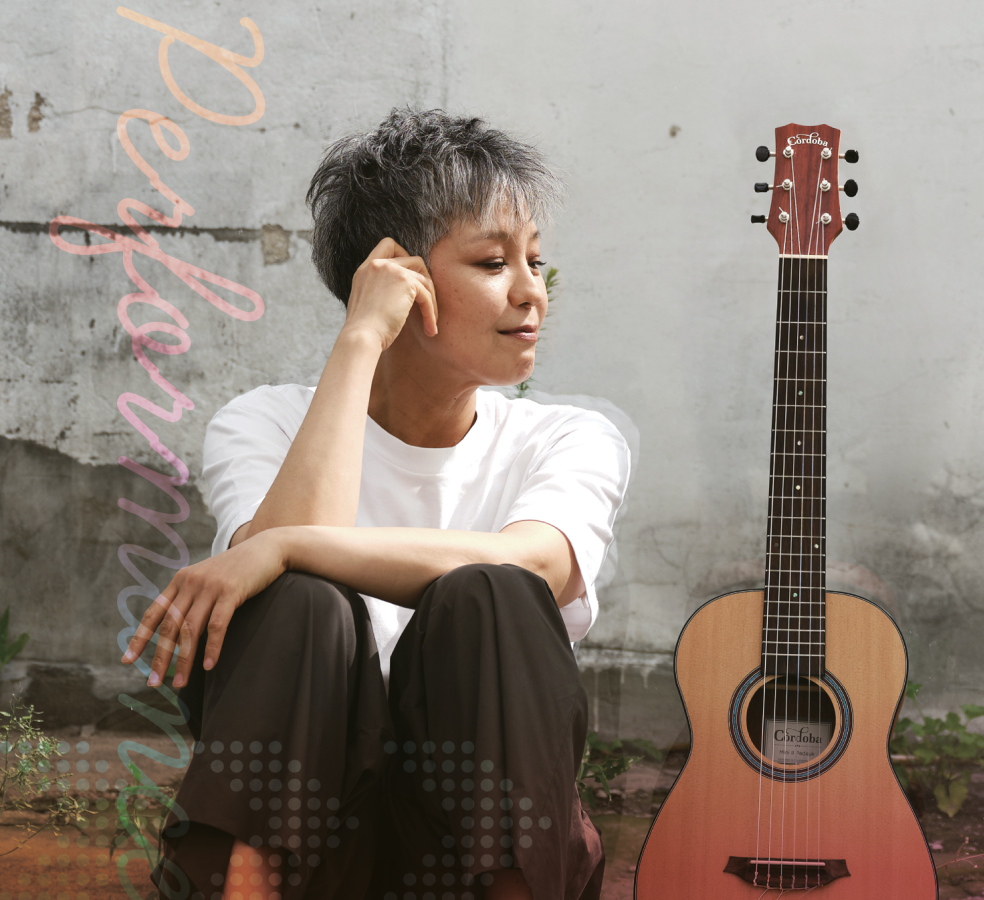
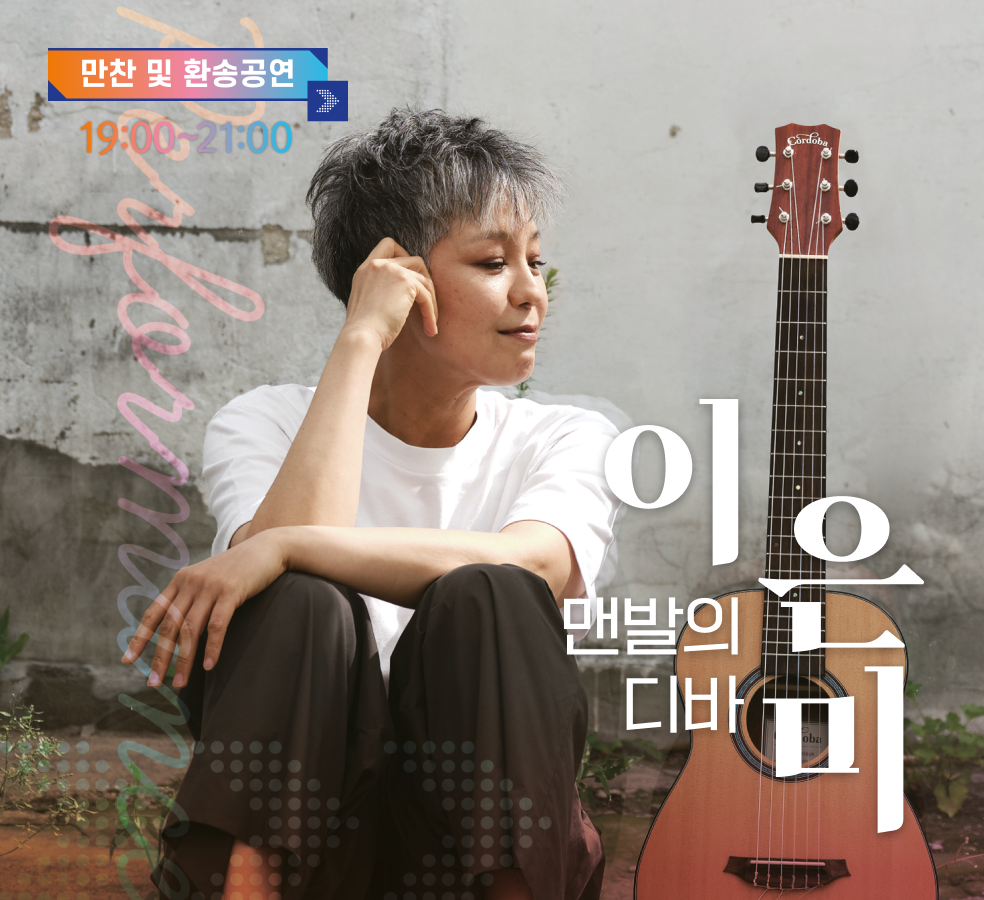
MICE-4873 #time 30m 모바일 수정

Changed region(s): [[0.5488, 0.4356, 0.9451, 0.9333], [0.0305, 0.0311, 0.3659, 0.1867]]

diff --git a/sass/index.sass b/sass/index.sass
@@ -369,7 +369,7 @@ main
         [data-main_wrap]
             height: 111vw
             background:
-                image: url(/images/mobile_main1.png)
+                image: url(/images/2024_m_top.png)
                 position: center center
                 repeat: no-repeat
                 size: cover
@@ -390,19 +390,20 @@ main
                 min-width: 360px
                 height: 100%
                 position: relative
-                div
+                [data-button_wrap]
                     display: flex
                     flex-direction: column
                     justify-content: center
                     height: 100%
-                    div
+                    [data-button_box]
                         display: flex
                         align-items: center
                         margin-top: 0
                         justify-content: flex-end
+                        flex-direction: column
                         & > a
-                            width: 140px
-                            height: 48px
+                            width: 160px
+                            height: 40px
                             border-radius: 37px
                             background-image: linear-gradient(106deg, #b9cfec 0%, #7ca5d4 0%, #77c1ce 100%)
                             display: flex
@@ -411,21 +412,16 @@ main
                             color: #fff
                             font-size: 16px
                             font-weight: bold
-                            margin-bottom: 23px
+                            margin-bottom: 10px
                             &:first-of-type
                                 margin-right: 0px
                         &::after
                             content: ""
-                            display: block
-                            width: 24px
-                            height: 40px
-                            bottom: 0
-                            background:
-                                image: url(/images/arrow_mobile.png)
-                                size: contain
-                            margin-bottom: 0
-                [data-floating_box]
-                    display: none
+                            display: none
+                    &::after
+                        display: none
+                        content: ""
+                        display: none
         [data-speaker_box]
             background-color: #fff
             display: flex

diff --git a/css/index.css b/css/index.css
@@ -403,7 +403,7 @@ main [data-sponsore_box] [data-moblie_img_box] {
   }
   main [data-main_wrap] {
     height: 111vw;
-    background-image: url(/images/mobile_main1.png);
+    background-image: url(/images/2024_m_top.png);
     background-position: center center;
     background-repeat: no-repeat;
     background-size: cover;
@@ -428,21 +428,22 @@ main [data-sponsore_box] [data-moblie_img_box] {
     height: 100%;
     position: relative;
   }
-  main [data-main_wrap] [data-main_box] div {
+  main [data-main_wrap] [data-main_box] [data-button_wrap] {
     display: flex;
     flex-direction: column;
     justify-content: center;
     height: 100%;
   }
-  main [data-main_wrap] [data-main_box] div div {
+  main [data-main_wrap] [data-main_box] [data-button_wrap] [data-button_box] {
     display: flex;
     align-items: center;
     margin-top: 0;
     justify-content: flex-end;
+    flex-direction: column;
   }
-  main [data-main_wrap] [data-main_box] div div > a {
-    width: 140px;
-    height: 48px;
+  main [data-main_wrap] [data-main_box] [data-button_wrap] [data-button_box] > a {
+    width: 160px;
+    height: 40px;
     border-radius: 37px;
     background-image: linear-gradient(106deg, #b9cfec 0%, #7ca5d4 0%, #77c1ce 100%);
     display: flex;
@@ -451,22 +452,18 @@ main [data-sponsore_box] [data-moblie_img_box] {
     color: #fff;
     font-size: 16px;
     font-weight: bold;
-    margin-bottom: 23px;
+    margin-bottom: 10px;
   }
-  main [data-main_wrap] [data-main_box] div div > a:first-of-type {
+  main [data-main_wrap] [data-main_box] [data-button_wrap] [data-button_box] > a:first-of-type {
     margin-right: 0px;
   }
-  main [data-main_wrap] [data-main_box] div div::after {
+  main [data-main_wrap] [data-main_box] [data-button_wrap] [data-button_box]::after {
     content: "";
-    display: block;
-    width: 24px;
-    height: 40px;
-    bottom: 0;
-    background-image: url(/images/arrow_mobile.png);
-    background-size: contain;
-    margin-bottom: 0;
+    display: none;
   }
-  main [data-main_wrap] [data-main_box] [data-floating_box] {
+  main [data-main_wrap] [data-main_box] [data-button_wrap]::after {
+    display: none;
+    content: "";
     display: none;
   }
   main [data-speaker_box] {
